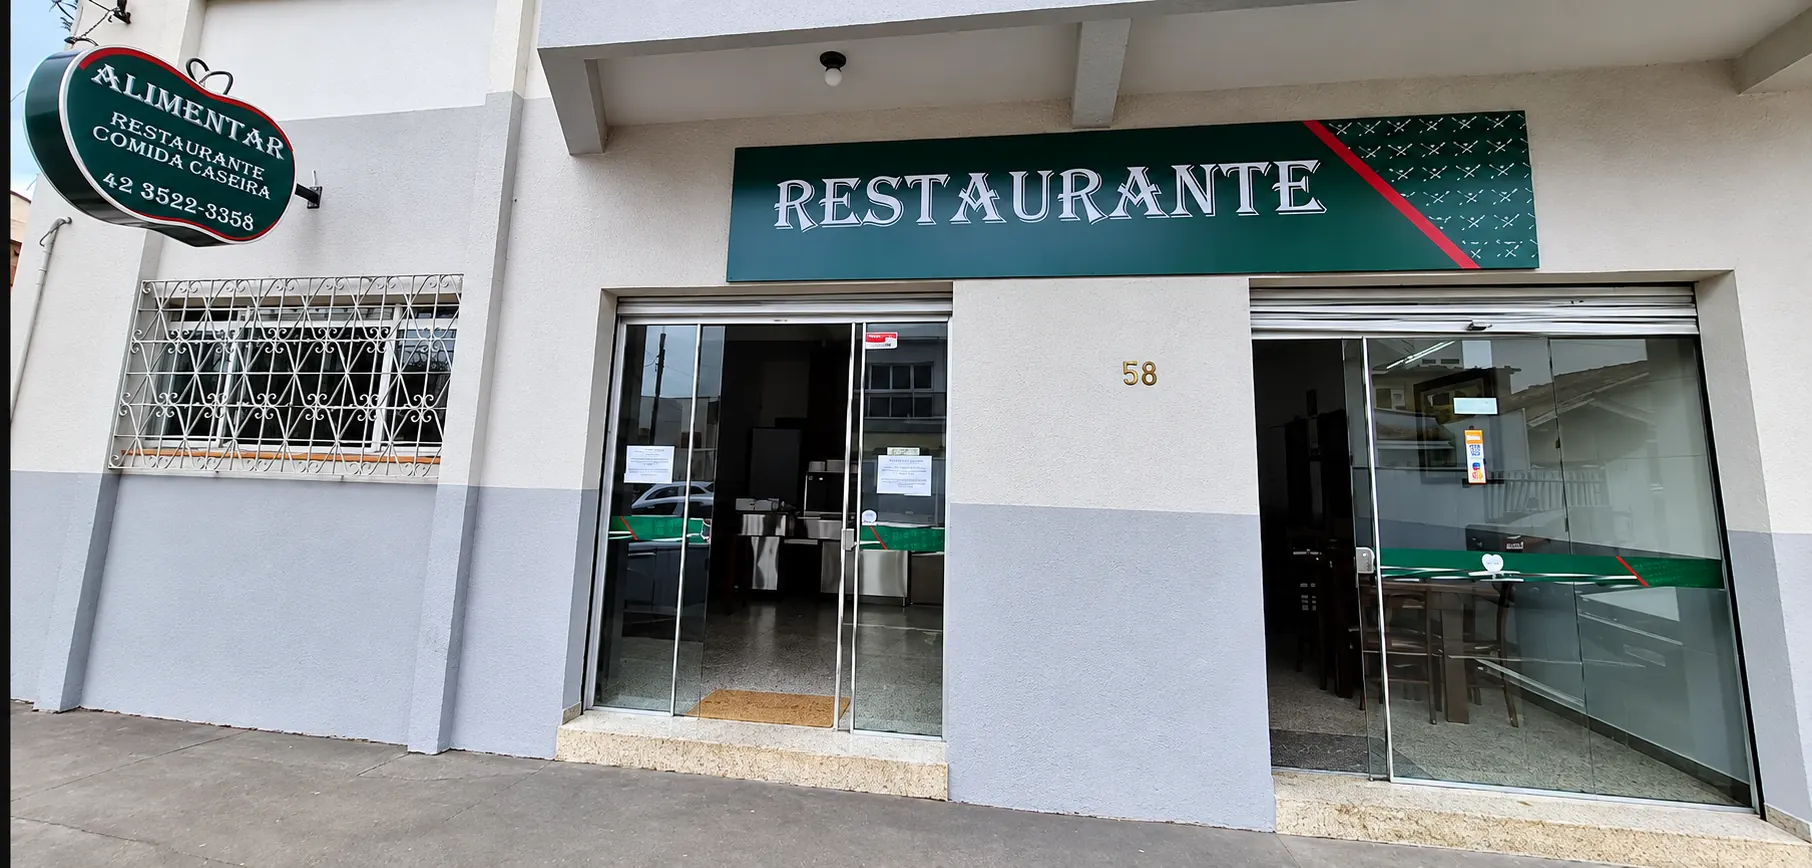
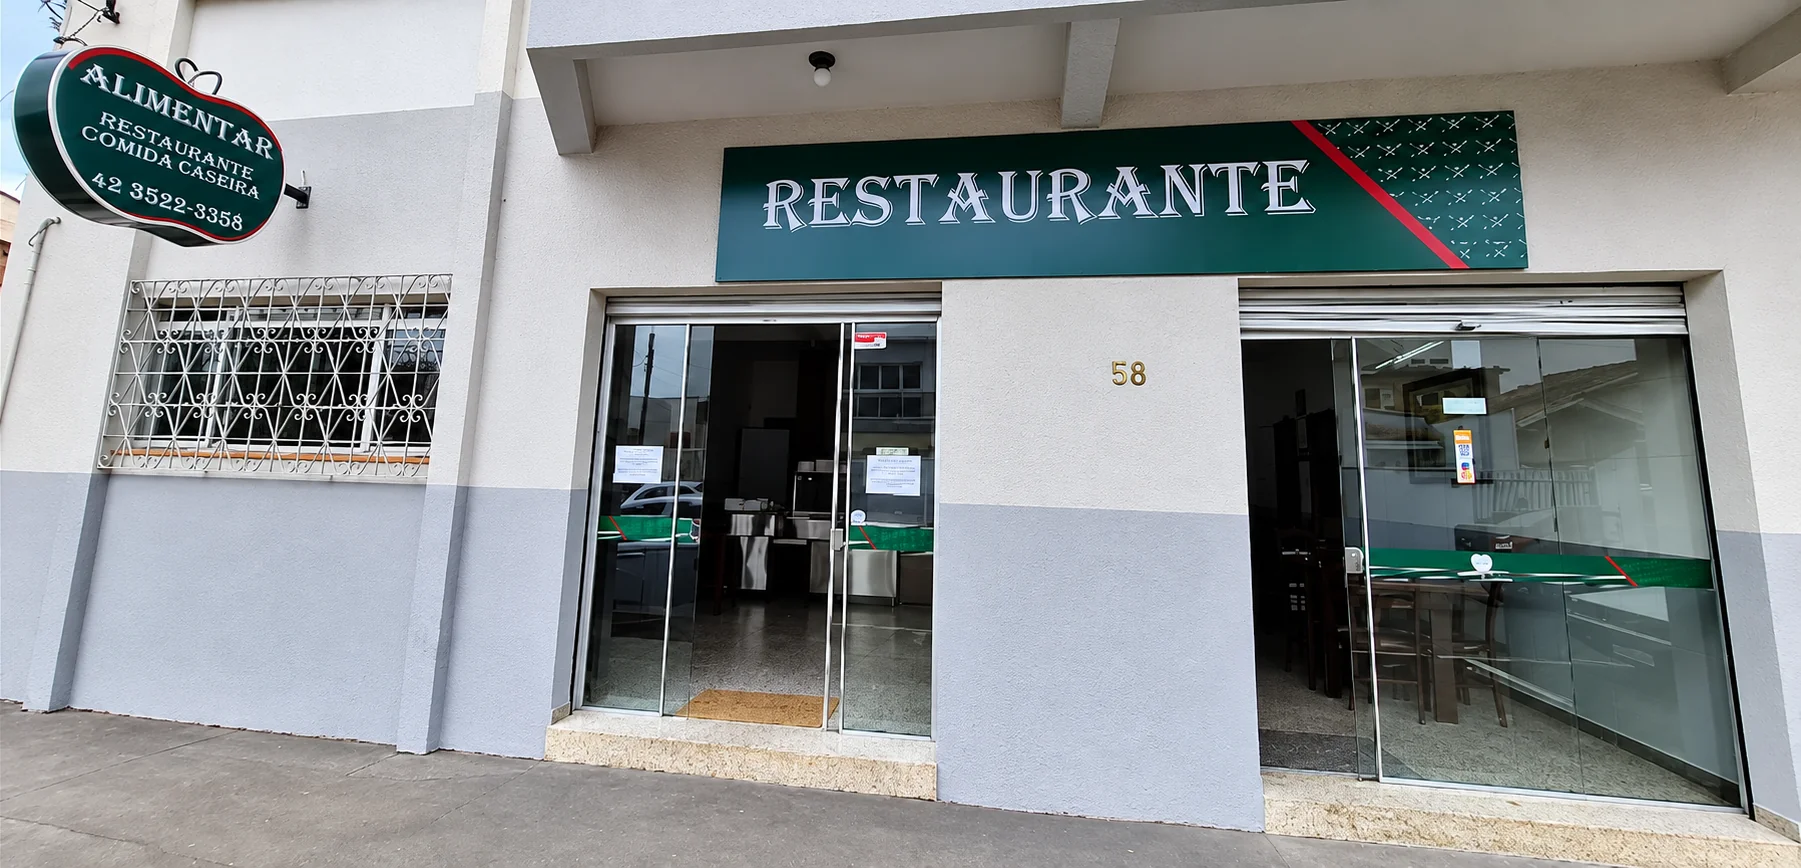
Corrige faixa da fachada e organiza avaliacoes Google

diff --git a/styles.css b/styles.css
@@ -1,1 +1,24 @@
 :root{--g:#006630;--dark:#063f24;--ink:#202a22;--muted:#5b6c5e;--pale:#eaf3ec;--red:#e50d19;--e:cubic-bezier(.22,1,.36,1)}*{box-sizing:border-box}html{scroll-behavior:smooth}body{margin:0;background:white;color:var(--ink);font:400 15px/1.7 "DM Sans",Arial,sans-serif;-webkit-font-smoothing:antialiased}img,video{display:block;max-width:100%}a{color:inherit;text-decoration:none}a:focus-visible{outline:2px solid var(--red);outline-offset:4px}h1,h2,h3,p,figure,blockquote{margin:0}h1,h2,h3{font:400 1em/1.14 Bitter,Georgia,serif;letter-spacing:-.035em}.site-header{height:86px;display:flex;justify-content:center;align-items:center;background:#fff}.brand-home img{height:76px;width:76px;object-fit:contain}.eyebrow{color:var(--g);font-size:12px;font-weight:700;letter-spacing:.02em}.hero{background:#fff}.hero-wrap{max-width:1160px;width:calc(100% - 72px);margin:auto;display:grid;grid-template-columns:minmax(0,1fr) 355px;align-items:center;gap:clamp(55px,8vw,140px);padding:45px 0 80px}.hero-copy h1{font-size:clamp(48px,4.4vw,62px);max-width:560px;margin:25px 0 23px}.hero h1 em{color:var(--g);font-weight:400}.hero-description{max-width:455px;color:var(--muted);font-size:16px}.hero-actions{display:flex;align-items:center;gap:24px;flex-wrap:wrap;margin-top:30px}.button{display:inline-flex;align-items:center;justify-content:space-between;gap:24px;min-height:48px;padding:12px 20px;border-radius:2px;font:600 14px/1.2 "DM Sans",sans-serif;transition:transform .25s var(--e),box-shadow .25s,background .25s}.button:hover{transform:translateY(-2px);box-shadow:0 9px 19px #00451f23}.button span,.option-action span{transition:transform .25s var(--e)}.button:hover span,.option-action:hover span{transform:translate(3px,-3px)}.button-primary{background:var(--g);color:#fff}.button-primary:hover{background:#004d24}.button-outline{border:1px solid var(--g);color:var(--g)}.subtle-link{font-weight:600;font-size:14px;color:var(--g)}.service-times{margin-top:51px;display:flex;flex-direction:column;gap:3px}.service-times span{color:var(--muted);font-size:12px}.service-times strong{font-size:14px;font-weight:600;color:var(--dark)}.hero-film{width:355px}.film-frame{width:355px;aspect-ratio:9/16;background:var(--dark)}.film-frame video{width:100%;height:100%;object-fit:contain}.hero-film figcaption{display:flex;justify-content:space-between;margin-top:12px;color:var(--g);font-size:12px;font-weight:600}.hero-film figcaption span{font-weight:400;color:var(--muted)}.restaurant{background:var(--pale);padding:78px 0 95px}.restaurant-panel{max-width:1100px;width:calc(100% - 72px);margin:auto;background:#fff;box-shadow:0 26px 65px #043e2017;display:grid;grid-template-columns:335px 1fr;gap:clamp(55px,9vw,132px);align-items:center;padding:43px 65px}.restaurant-photo-wrap{width:335px}.restaurant-photo{width:335px;aspect-ratio:9/16;height:auto;object-fit:contain}.restaurant-photo-wrap figcaption{font-size:11px;margin-top:11px;color:var(--muted)}.restaurant-copy{max-width:440px}.restaurant-copy h2{font-size:clamp(40px,3.7vw,53px);margin:18px 0 22px}.restaurant-copy>p:not(.eyebrow){font-size:16px;line-height:1.8;color:var(--muted)}.restaurant-facts{display:flex;gap:22px;flex-wrap:wrap;margin:23px 0 29px;color:var(--g);font-weight:600;font-size:13px}.options{max-width:1100px;width:calc(100% - 72px);margin:auto;padding:92px 0 104px}.options-head{display:grid;grid-template-columns:1.15fr .7fr;gap:70px;align-items:end}.options-head h2{font-size:clamp(43px,4vw,58px);margin-top:17px}.options-head>p{max-width:365px;color:var(--muted)}.options-layout{display:grid;grid-template-columns:1.07fr .93fr;gap:24px;margin-top:45px}.option{min-height:273px;padding:31px 34px;display:flex;flex-direction:column;align-items:flex-start;transition:transform .25s var(--e)}.option:hover{transform:translateY(-3px)}.option-buffet{background:#eaf3ec}.option-marmitas{background:#fff;box-shadow:0 15px 47px #043e2014}.option-meta{color:var(--g);font-size:12px;font-weight:600}.option-marmitas .option-meta{color:#bd0e1c}.option h3{font-size:38px;margin:8px 0 11px}.option p{max-width:430px;color:var(--muted);font-size:15px}.option-action{display:flex;align-items:center;gap:19px;margin-top:auto;padding-top:18px;font-size:14px;font-weight:700;color:var(--g)}.option-action span{display:inline-block}.reviews{background:var(--dark);color:#fff;padding:102px 0 107px}.reviews-inner{max-width:1100px;width:calc(100% - 72px);margin:auto;display:grid;grid-template-columns:.85fr 1.15fr;gap:90px;align-items:start}.eyebrow-light{color:#b6dfc0}.reviews h2{font-size:clamp(39px,3.4vw,50px);margin:19px 0 20px;max-width:490px}.reviews-intro>p:not(.eyebrow){color:#c9dfd0;max-width:410px;font-size:14px}.reviews-source{display:inline-flex;margin-top:27px;color:#fff;font-weight:600;font-size:13px}.reviews-quotes{display:grid;gap:30px;padding-top:2px}.review{padding:0 0 4px;position:relative}.quote-mark{display:block;font:400 59px/1 Bitter,serif;color:#9bd1a8;height:48px}.review blockquote{font:400 clamp(21px,2.2vw,27px)/1.46 Bitter,Georgia,serif}.review figcaption{display:flex;justify-content:space-between;gap:10px;flex-wrap:wrap;margin-top:20px;font-size:13px;font-weight:600;color:#fff}.review figcaption span{font-weight:400;color:#a2bea9}.location{background:#f5f8f4;padding:95px 0 97px}.location-inner{max-width:1100px;width:calc(100% - 72px);margin:auto}.location-heading{display:grid;grid-template-columns:1fr .72fr;gap:75px;align-items:end;margin-bottom:40px}.location-heading h2{font-size:clamp(42px,3.8vw,55px);margin-top:15px}.location-heading>p{max-width:370px;color:var(--muted)}.location-feature{background:#fff;box-shadow:0 20px 55px #043e2014;display:grid;grid-template-columns:60% 40%;align-items:stretch}.facade{margin:0;align-self:center;padding:0}.facade img{width:100%;height:auto;object-fit:contain;aspect-ratio:auto}.facade figcaption{color:var(--muted);font-size:11px;padding:12px 17px 13px}.location-info{padding:36px 33px 33px;display:flex;flex-direction:column;align-items:flex-start;justify-content:center}.location-kicker{font-weight:700;color:var(--g);font-size:12px}.location-info h3{font-size:30px;margin:10px 0 13px}.location-info address{font-style:normal;font-size:14px;line-height:1.8}.address-note{color:var(--muted);font-size:12px;line-height:1.6;margin:12px 0 22px}.location-map-shell{margin-top:28px;background:#fff;padding:14px;box-shadow:0 10px 25px #043e200e}.map-heading{display:flex;justify-content:space-between;gap:20px;padding:3px 6px 14px;color:var(--dark);font-size:13px;font-weight:700}.map-heading a{color:var(--g)}.location-map-shell iframe{display:block;width:100%;height:295px;border:0;background:#e4ece5}.site-footer{background:var(--dark);color:#e7f0e9;padding:35px max(calc((100% - 1100px)/2),36px);display:grid;grid-template-columns:1fr 1fr;gap:25px}.site-footer>div:first-child{display:flex;flex-direction:column}.site-footer strong{font:400 35px Bitter,serif}.site-footer>div:first-child span,.site-footer small{font-size:12px;color:#b6d0bd}.footer-actions{display:flex;gap:25px;justify-content:flex-end;align-items:center;font-size:13px;font-weight:600}.site-footer small{grid-column:1/-1;display:flex;justify-content:space-between}.floating-contact{position:fixed;right:20px;bottom:20px;z-index:8;background:var(--g);color:white;border:1px solid white;display:flex;gap:12px;align-items:center;padding:11px 15px;font-size:13px;font-weight:600;box-shadow:0 8px 22px #003c1e30}.floating-symbol{font-size:19px}[data-reveal]{opacity:0;transform:translateY(17px);transition:opacity .65s ease,transform .75s var(--e)}[data-reveal].in-view{opacity:1;transform:none}@media(max-width:1000px) and (min-width:701px){.hero-wrap{gap:35px}.restaurant-panel{grid-template-columns:270px 1fr;padding:35px;gap:45px}.restaurant-photo-wrap,.restaurant-photo{width:270px}.reviews-inner{gap:40px}.location-feature{grid-template-columns:55% 45%}.location-info{padding:23px}}@media(max-width:700px){.site-header{height:76px}.brand-home img{width:66px;height:66px}.hero-wrap{width:calc(100% - 44px);padding:38px 0 64px;display:flex;flex-direction:column;align-items:stretch;gap:38px}.hero-copy h1{font-size:clamp(41px,10vw,54px);margin:19px 0}.hero-description{font-size:15px}.hero-actions{gap:14px;margin-top:25px}.service-times{margin-top:26px}.hero-film{width:273px;align-self:center}.film-frame{width:273px}.hero-film figcaption{font-size:11px}.restaurant{padding:46px 0 60px}.restaurant-panel{width:calc(100% - 32px);display:flex;flex-direction:column;padding:31px 22px 35px;gap:28px}.restaurant-copy{order:0}.restaurant-copy h2{font-size:clamp(37px,9vw,48px)}.restaurant-copy>p:not(.eyebrow){font-size:15px}.restaurant-photo-wrap{order:1;width:min(295px,100%)}.restaurant-photo{width:100%}.options{width:calc(100% - 44px);padding:70px 0 77px}.options-head{display:block}.options-head h2{font-size:clamp(39px,9.5vw,49px)}.options-head>p{margin-top:14px}.options-layout{grid-template-columns:1fr;gap:16px;margin-top:33px}.option{min-height:0;padding:27px 26px}.option h3{font-size:34px}.option-action{margin-top:17px;padding-top:0}.reviews{padding:69px 0 76px}.reviews-inner{width:calc(100% - 44px);display:block}.reviews h2{font-size:clamp(37px,8.9vw,47px)}.reviews-quotes{margin-top:37px;gap:30px}.review blockquote{font-size:21px}.location{padding:68px 0 71px}.location-inner{width:calc(100% - 32px)}.location-heading{display:block;margin:0 6px 30px}.location-heading h2{font-size:clamp(39px,9.1vw,48px)}.location-heading>p{margin-top:17px}.location-feature{display:flex;flex-direction:column}.facade{order:0}.facade figcaption{font-size:11px}.location-info{order:1;padding:26px 24px 29px}.location-info h3{font-size:28px}.location-map-shell{padding:9px;margin-top:16px}.location-map-shell iframe{height:275px}.map-heading{font-size:11px}.site-footer{padding:34px 23px 88px;display:block}.footer-actions{justify-content:flex-start;margin:24px 0}.site-footer small{display:flex;gap:15px;flex-wrap:wrap}.floating-contact{bottom:14px;right:13px}}@media(max-width:350px){.hero-wrap,.options,.reviews-inner{width:calc(100% - 34px)}.hero-film,.film-frame{width:273px}}@media(prefers-reduced-motion:reduce){*,*:before,*:after{scroll-behavior:auto!important;transition:none!important;animation:none!important}[data-reveal]{opacity:1!important;transform:none!important}}
+/* AvaliaÃ§Ãµes Google â€” uma seÃ§Ã£o de leitura e uma chamada distinta */
+.reviews { background:#06452a; padding:83px 0 42px; }
+.reviews-inner { grid-template-columns:.8fr 1.2fr; gap:55px; }
+.google-label {display:inline-flex;gap:11px;align-items:center;color:#fff;font-size:14px;font-weight:700;}
+.google-g {display:grid;place-items:center;width:33px;height:33px;background:#fff;color:#4285f4;border-radius:50%;font:800 23px/1 'DM Sans',sans-serif;}
+.reviews-intro h2 {margin-top:23px;}
+.reviews-quotes {grid-template-columns:1fr 1fr;gap:15px;}
+.review {background:#fff;color:#203a29;padding:24px 23px 22px;min-height:247px;display:flex;flex-direction:column;}
+.review blockquote {font-size:clamp(18px,1.6vw,22px);line-height:1.48;}
+.review figcaption {margin-top:auto;padding-top:22px;color:#08632e;display:flex;flex-direction:column;gap:4px;}
+.review figcaption strong {font-weight:700;}
+.review figcaption span {color:#5d6d61;}
+.review-action {max-width:1100px;margin:53px auto 0;background:#fff;display:grid;grid-template-columns:1fr auto;gap:48px;align-items:center;padding:30px 37px;}
+.review-action-eyebrow {font-size:12px;color:#007038;font-weight:700;}
+.review-action h3 {font-size:clamp(25px,2.2vw,32px);margin:8px 0 7px;color:#1c3122;}
+.review-action p {font-size:14px;color:#52685a;}
+.review-action-button {background:#006630;color:#fff;display:flex;align-items:center;justify-content:space-between;gap:30px;padding:16px 20px;white-space:nowrap;font-size:14px;font-weight:700;transition:background .2s ease,transform .2s ease;}
+.review-action-button:hover {background:#004b23;transform:translateY(-2px);}
+.review-destination-note {max-width:1100px;margin:12px auto 0;font-size:11px;color:#c4dcca;line-height:1.5;}
+.stars {display:none;}
+@media(max-width:1100px) {.review-action,.review-destination-note{margin-left:36px;margin-right:36px;}.reviews-inner{gap:25px}.reviews-quotes{gap:12px}}
+@media(max-width:700px) {.reviews{padding:60px 0 40px}.reviews-inner{display:block}.reviews-quotes{display:grid;grid-template-columns:1fr;margin-top:28px}.review{min-height:0;padding:24px}.review blockquote{font-size:20px}.review figcaption{padding-top:20px}.review-action{display:flex;flex-direction:column;align-items:stretch;gap:19px;margin:28px 22px 0;padding:25px 22px}.review-action-button{justify-content:space-between;width:100%;white-space:normal}.review-destination-note{margin:12px 22px 0}.google-label{font-size:13px}}
+

diff --git a/index.html b/index.html
@@ -93,28 +93,7 @@
       </div>
     </section>
 
-    <section class="reviews" id="avaliacoes" aria-labelledby="reviews-title">
-      <div class="reviews-inner">
-        <div class="reviews-intro">
-          <p class="eyebrow eyebrow-light">O que dizem por aqui</p>
-          <h2 id="reviews-title">A opinião de quem já almoçou na Alimentar.</h2>
-          <p>Comentários atribuídos a clientes e publicados na página pública do restaurante.</p>
-          <a href="https://alimentar.ueniweb.com/" target="_blank" rel="noopener noreferrer" class="reviews-source">Ver fonte dos comentários <span aria-hidden="true">↗</span></a>
-        </div>
-        <div class="reviews-quotes">
-          <figure class="review">
-            <span class="quote-mark" aria-hidden="true">“</span>
-            <blockquote>Comida ótima, acessível e ponto muito bem localizado!</blockquote>
-            <figcaption>Renata Azevedo <span>Julho de 2026</span></figcaption>
-          </figure>
-          <figure class="review">
-            <span class="quote-mark" aria-hidden="true">“</span>
-            <blockquote>excelente atendimento, comida de alta qualidade e limpeza extraordinária!</blockquote>
-            <figcaption>Guilherme Henrique <span>Março de 2026</span></figcaption>
-          </figure>
-        </div>
-      </div>
-    </section>
+<section class="reviews" id="avaliacoes" aria-labelledby="reviews-title"><div class="reviews-inner"><div class="reviews-intro"><div class="google-label"><span class="google-g" aria-hidden="true">G</span><span>Avaliações no Google</span></div><h2 id="reviews-title">Quem conhece a Alimentar conta como foi.</h2><p>Comentários atribuídos a clientes em avaliações do Google, reproduzidos na página pública do restaurante.</p><a class="reviews-source" href="https://alimentar.ueniweb.com/" target="_blank" rel="noopener noreferrer">Conferir origem dos comentários ↗</a></div><div class="reviews-quotes"><figure class="review"><span class="stars" aria-label="Cinco estrelas">★★★★★</span><blockquote>Comida ótima, acessível e ponto muito bem localizado!</blockquote><figcaption><strong>Renata Azevedo</strong><span>Julho de 2026</span></figcaption></figure><figure class="review"><span class="stars" aria-label="Cinco estrelas">★★★★★</span><blockquote>excelente atendimento, comida de alta qualidade e limpeza extraordinária!</blockquote><figcaption><strong>Guilherme Henrique</strong><span>Março de 2026</span></figcaption></figure></div></div><div class="review-action"><div><span class="review-action-eyebrow">Já almoçou na Alimentar?</span><h3>Conte como foi sua experiência.</h3><p>Sua avaliação no Google ajuda outras pessoas a conhecerem o restaurante.</p></div><a href="https://www.google.com/maps/search/?api=1&query=Alimentar%20Restaurante%20Porto%20Uni%C3%A3o%20SC" class="review-action-button" target="_blank" rel="noopener noreferrer">Avaliar no Google <span aria-hidden="true">↗</span></a></div><p class="review-destination-note">O botão abre a busca do restaurante no Google Maps; selecione o perfil da Alimentar e escolha “Escrever uma avaliação”.</p></section>
 
     <section class="location" id="visite" aria-labelledby="location-title">
       <div class="location-inner">
